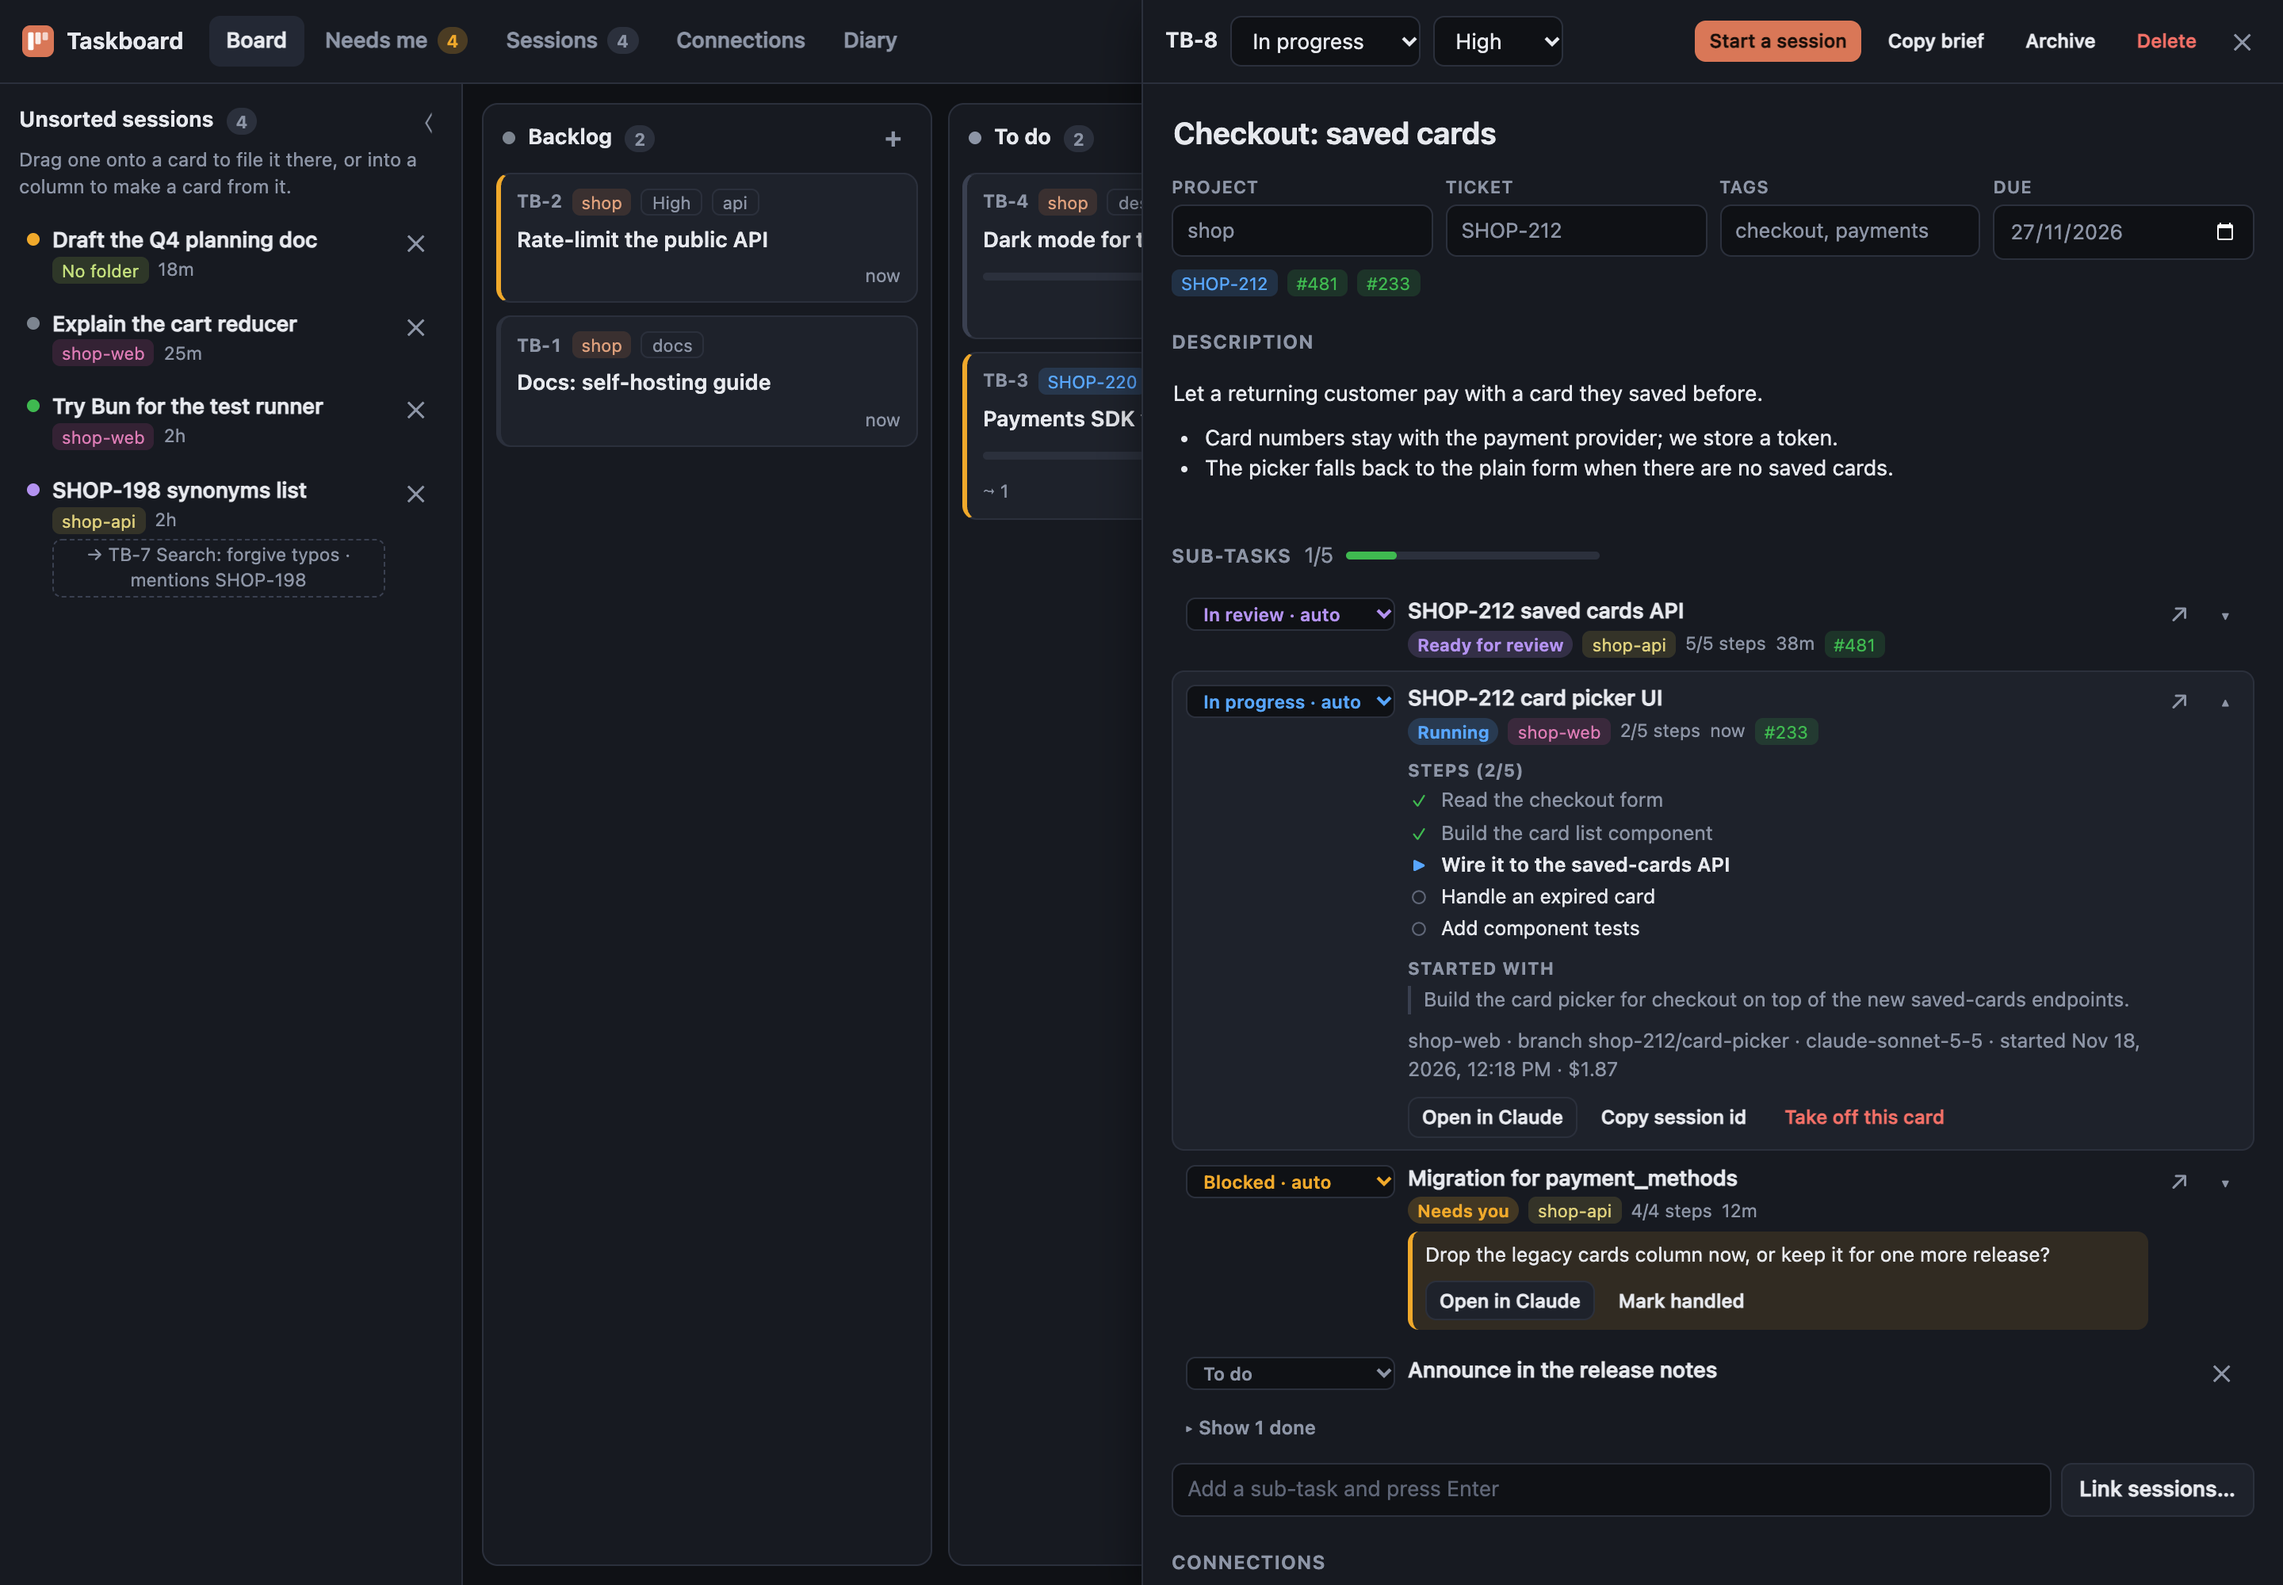
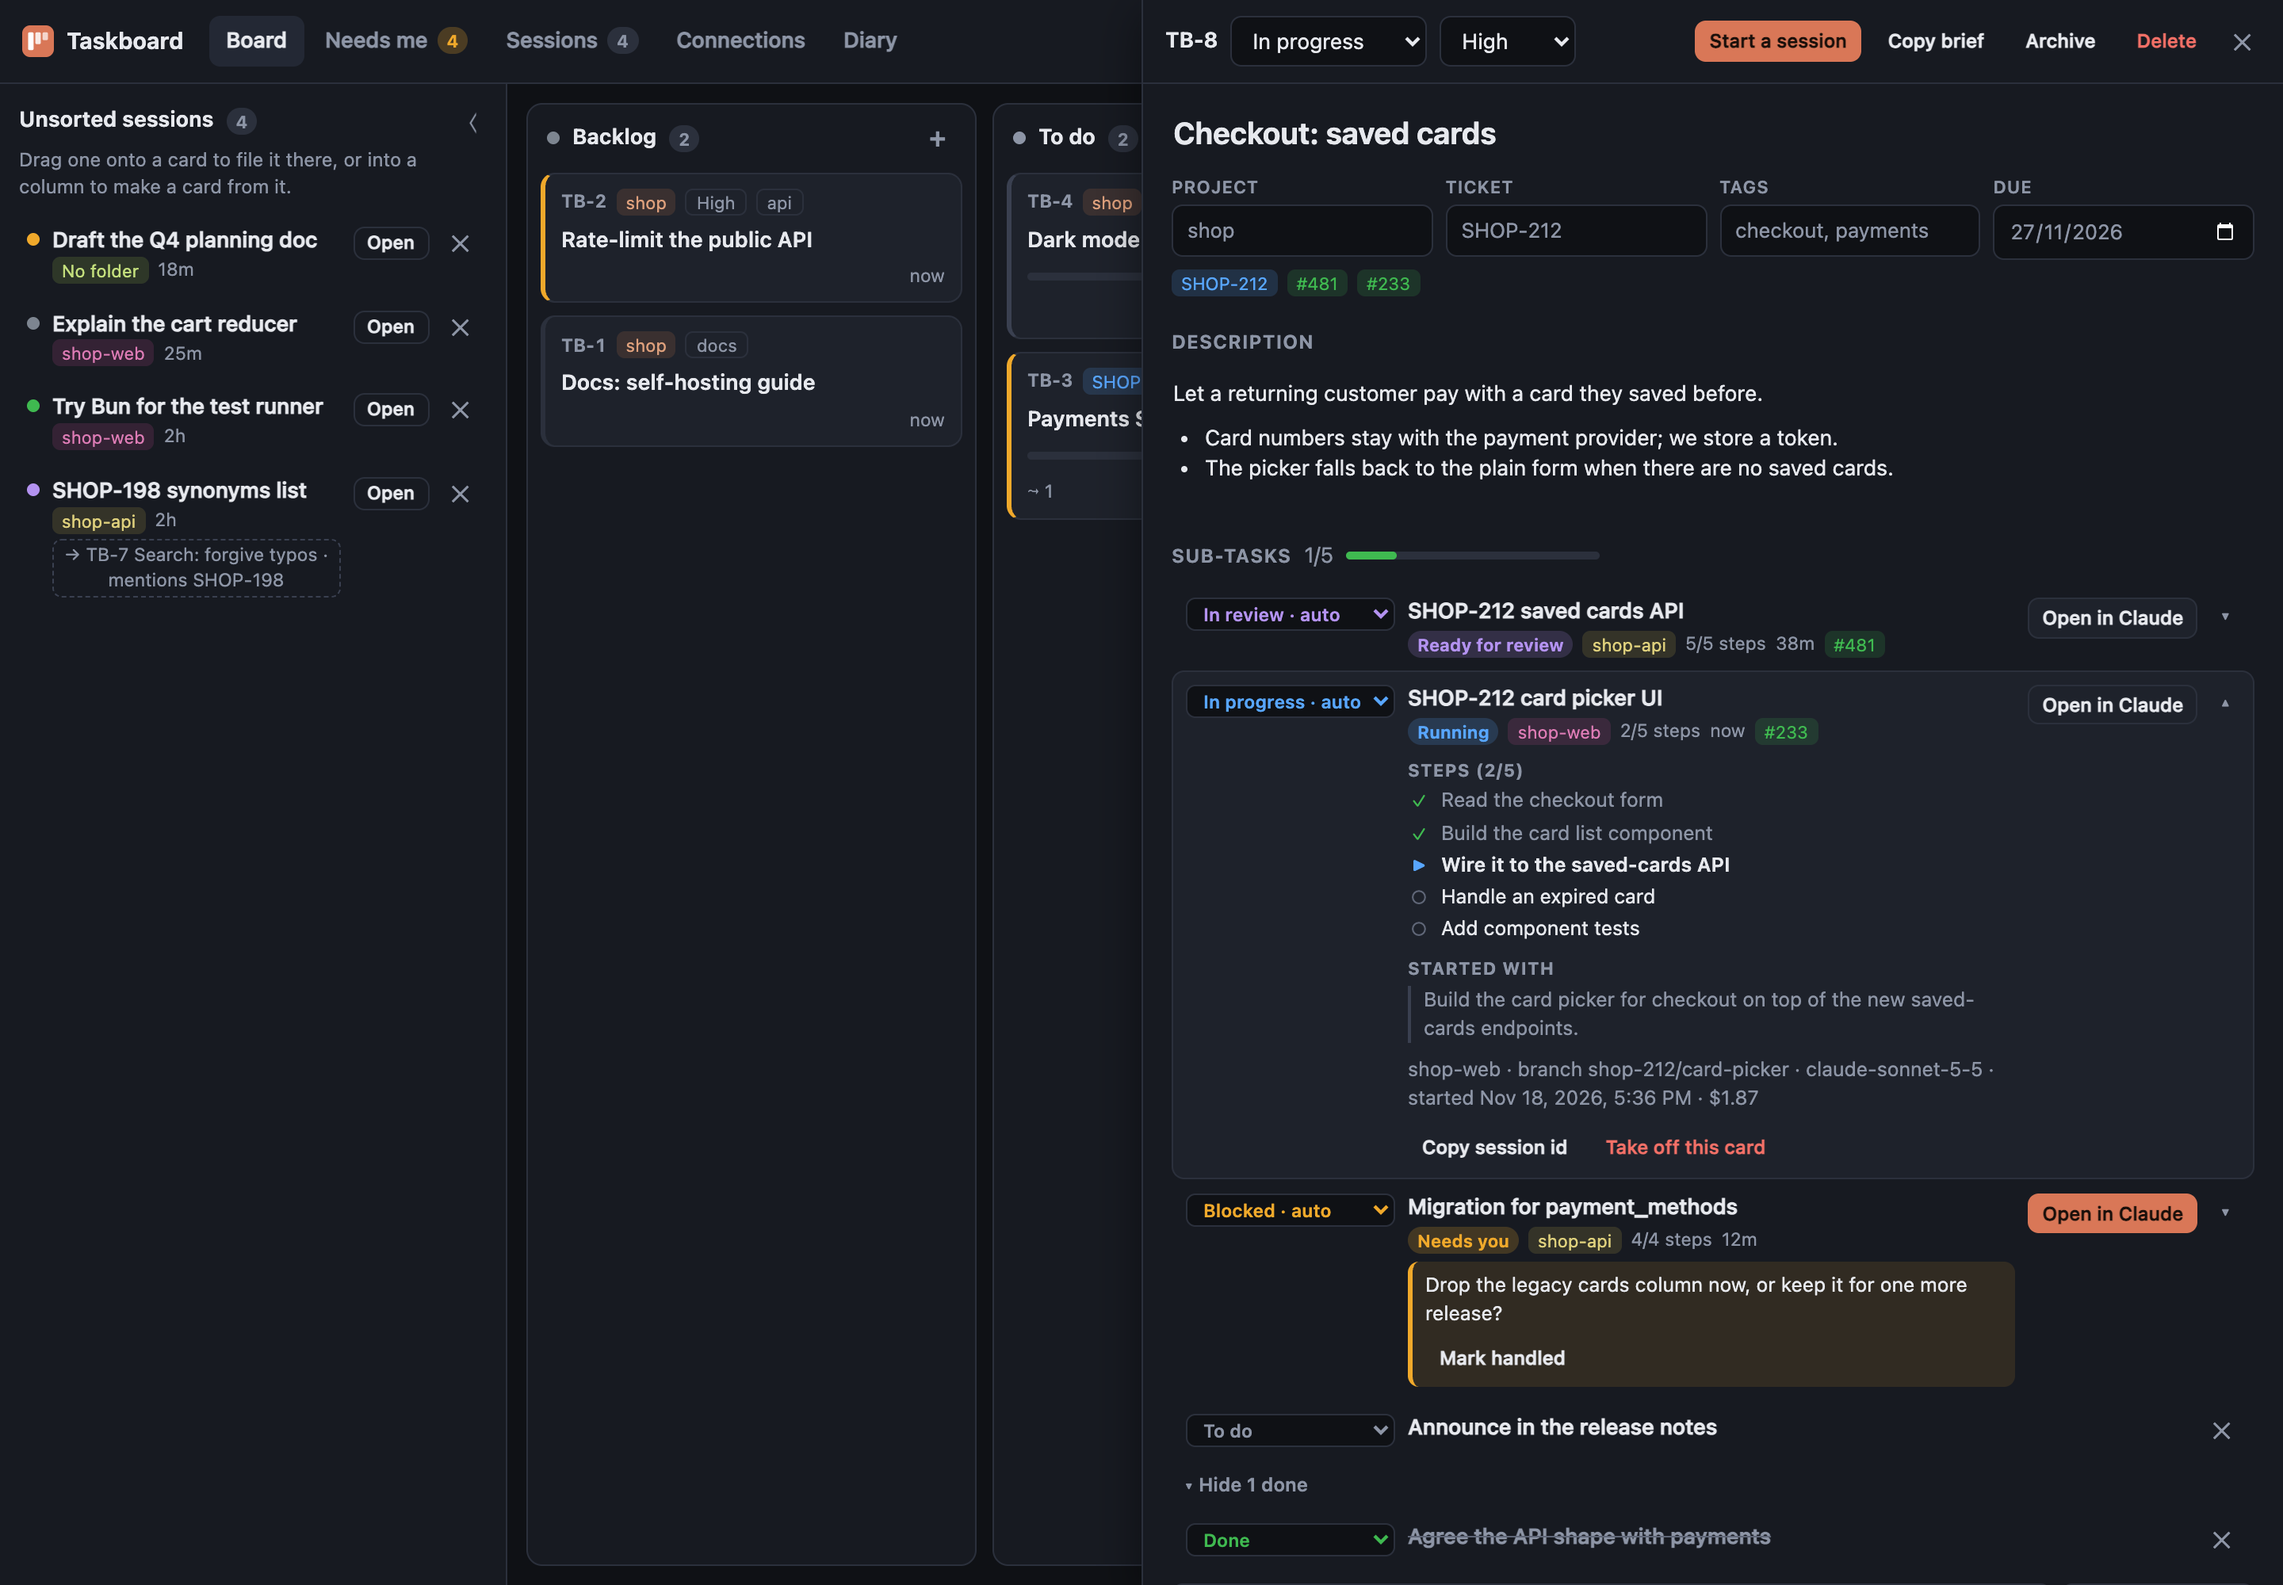
Show Open in Claude on every session
The way from the board into a session was a small arrow in the card
panel, the Sessions table and the Diary, a labelled button only once a
session row was unfolded or was waiting on you, and missing from the
unsorted list altogether.

Every session now has one labelled button wherever it is listed: Open in
Claude, or Copy resume command for a session that ran in a terminal. In
the card panel it takes the accent colour when the session is waiting on
you. At side-pane widths the label shortens to Open.

The unsorted list is a little wider to make room, and the README
screenshots are retaken.

diff --git a/public/drawer.js b/public/drawer.js
@@ -90,18 +90,18 @@ function subRow(card, sub) {
     meta = `<div class="sub-meta">${bits.join('')}</div>`;
     if (sub.state === 'needs_you') {
       needs = `<div class="sub-needs">${esc((s.summary && s.summary.needsAction) || 'Waiting for your reply.')}
-        <div class="row-actions" style="margin-top:6px"><button class="btn small" data-act="open-session" data-session="${esc(s.id)}">Open in Claude</button><button class="btn small ghost" data-act="ack" data-session="${esc(s.id)}">Mark handled</button></div></div>`;
+        <div class="row-actions" style="margin-top:6px"><button class="btn small ghost" data-act="ack" data-session="${esc(s.id)}">Mark handled</button></div></div>`;
     }
     if (open) {
       detail = `<div class="sub-detail">${sessionDetailHtml(s)}
-        <div class="row-actions"><button class="btn small" data-act="open-session" data-session="${esc(s.id)}">Open in Claude</button><button class="btn small ghost" data-act="copy-id" data-session="${esc(s.id)}">Copy session id</button><button class="btn small ghost danger" data-act="sub-remove" data-sub="${esc(sub.id)}">Take off this card</button></div></div>`;
+        <div class="row-actions"><button class="btn small ghost" data-act="copy-id" data-session="${esc(s.id)}">Copy session id</button><button class="btn small ghost danger" data-act="sub-remove" data-sub="${esc(sub.id)}">Take off this card</button></div></div>`;
     }
   } else if (linked) {
     meta = `<div class="sub-meta"><span>${sub.kind === 'routine' ? 'This scheduled task has no runs on this Mac.' : `The session was deleted from Claude.${sub.known ? ` <button class="fold" data-act="diary-find" data-q="${esc(sub.title)}">See what it did in the Diary</button>` : ''}`}</span></div>`;
   }
 
   const buttons = linked
-    ? `${s ? `<button class="icon-btn" data-act="open-session" data-session="${esc(s.id)}" title="Open in Claude">↗</button>` : ''}<button class="icon-btn" data-act="${s ? 'sub-toggle' : 'sub-remove'}" data-sub="${esc(sub.id)}" title="${s ? 'Details' : 'Remove'}">${s ? (open ? '▴' : '▾') : '✕'}</button>`
+    ? `${openButton(s, sub.state === 'needs_you' ? 'primary' : '')}<button class="icon-btn" data-act="${s ? 'sub-toggle' : 'sub-remove'}" data-sub="${esc(sub.id)}" title="${s ? 'Details' : 'Remove'}">${s ? (open ? '▴' : '▾') : '✕'}</button>`
     : `<button class="icon-btn" data-act="sub-remove" data-sub="${esc(sub.id)}" title="Remove">✕</button>`;
 
   return `<div class="sub${sub.status === 'done' ? ' is-done' : ''}${linked ? ' linked' : ''}${open ? ' expanded' : ''}">${select}<div class="sub-main">${title}${meta}${needs}${detail}</div>${buttons}</div>`;

diff --git a/public/styles.css b/public/styles.css
@@ -85,7 +85,7 @@ select.field { padding-right: 4px; }
 /* ---------- board ---------- */
 .board-wrap { flex: 1; min-width: 0; display: flex; }
 .inbox {
-  width: 292px; flex: none; border-right: 1px solid var(--line); background: var(--panel);
+  width: 320px; flex: none; border-right: 1px solid var(--line); background: var(--panel);
   display: flex; flex-direction: column; min-height: 0;
 }
 .inbox-head { display: flex; align-items: center; gap: 8px; padding: 12px 12px 4px; font-weight: 650; }
@@ -452,4 +452,17 @@ mark { background: color-mix(in srgb, var(--needs) 38%, transparent); color: inh
   .dl { grid-template-columns: auto minmax(0, 1fr); gap: 2px 8px; }
   .dl .dx { grid-column: 1 / -1; }
   .dsess { padding: 9px 10px 7px; }
+}
+
+/* ---------- the way into a session ---------- */
+.open-btn { flex: none; }
+.open-btn.narrow .wide { display: none; }
+.sess > .open-btn { padding: 1px 8px; font-size: 11.5px; border-color: var(--line); margin-top: 1px; }
+.sub > .open-btn { margin-top: 1px; }
+.dlg-foot .open-btn, .dlg-body .open-btn { padding: 6px 11px; font-size: inherit; }
+@media (max-width: 760px) {
+  table.sessions .open-btn .wide { display: none; }
+}
+@media (max-width: 520px) {
+  .sub > .open-btn .wide, .dsess-head .open-btn .wide { display: none; }
 }

diff --git a/public/views.js b/public/views.js
@@ -23,7 +23,7 @@ function needItem(s, kind) {
         </div>
       </div>
       <div class="row-actions">
-        <button class="btn small primary" data-act="open-session" data-session="${esc(s.id)}">Open in Claude</button>
+        ${openButton(s, 'primary')}
         ${kind === 'needs' ? `<button class="btn small" data-act="ack" data-session="${esc(s.id)}" title="You dealt with it outside the session">Mark handled</button>` : ''}
       </div>
     </div>`;
@@ -79,7 +79,7 @@ function renderSessions() {
         <td>${card ? `<a class="chip" href="#card=${esc(card.key)}" data-act="open-card" data-card="${esc(card.id)}">${esc(card.key)} ${esc(card.title.slice(0, 26))}</a>` : sug ? `<button class="suggest" data-act="accept-suggest" data-session="${esc(s.id)}" data-card="${esc(sug.id)}">→ ${esc(sug.key)} · ${esc(s.suggest.reason)}</button>` : '<span class="muted">—</span>'}</td>
         <td>${s.prs.slice(0, 3).map(prChip).join(' ')}</td>
         <td class="nowrap muted" title="${esc(fullDate(s.lastActivityAt))}">${esc(ago(s.lastActivityAt))}</td>
-        <td><button class="icon-btn" data-act="open-session" data-session="${esc(s.id)}" title="Open in Claude">↗</button></td>
+        <td class="nowrap">${openButton(s)}</td>
       </tr>`;
     })
     .join('');

diff --git a/public/core.js b/public/core.js
@@ -143,6 +143,20 @@ function prChip(pr) {
     : `<span class="chip ${cls}" title="${esc(title)}">${esc(label)}</span>`;
 }
 
+/**
+ * The way from the board into a session. A labelled button wherever a session is
+ * shown, never an icon to be found: opening the session is what the board is for.
+ * A session that ran in a terminal cannot be opened in the app, so its button
+ * copies the command that resumes it.
+ */
+function openButton(s, look) {
+  if (!s || !s.id) return '';
+  const cli = s.source === 'cli';
+  const label = cli ? 'Copy resume<span class="wide"> command</span>' : 'Open<span class="wide"> in Claude</span>';
+  const title = cli ? 'It ran in a terminal: copies the command that resumes it' : 'Open this session in the Claude app';
+  return `<button class="btn small open-btn${look ? ' ' + look : ''}" data-act="open-session" data-session="${esc(s.id)}" title="${title}" data-stop>${label}</button>`;
+}
+
 const stateChip = (state) => `<span class="state-chip ${esc(state)}">${esc(STATE_LABEL[state] || state)}</span>`;
 const stateDot = (state) => `<span class="state-dot ${esc(state)}" title="${esc(STATE_LABEL[state] || '')}"></span>`;
 

diff --git a/public/board.js b/public/board.js
@@ -48,6 +48,7 @@ function sessionRow(s) {
         <div class="sess-meta">${projChip(s.projectName)}${routine ? `<span>⏰ ${routine.runs} runs</span>` : ''}<span>${esc(ago(s.lastActivityAt))}</span>${s.prs.slice(0, 2).map(prChip).join('')}</div>
         ${sug ? `<button class="suggest" data-act="accept-suggest" data-session="${esc(s.id)}" data-card="${esc(sug.id)}" title="Link to this card">→ ${esc(sug.key)} ${esc(sug.title.slice(0, 26))} · ${esc(s.suggest.reason)}</button>` : ''}
       </div>
+      ${openButton(s, 'ghost narrow')}
       <button class="icon-btn" data-act="hide-session" data-session="${esc(s.id)}" title="Hide from this list">✕</button>
     </div>`;
 }

diff --git a/public/modals.js b/public/modals.js
@@ -170,7 +170,7 @@ function sessionModalHtml(s) {
       <span class="grow"></span>
       ${s.estate === 'needs_you' ? `<button class="btn" data-act="ack" data-session="${esc(s.id)}">Mark handled</button>` : ''}
       <button class="btn" data-act="modal-link" data-session="${esc(s.id)}">${card ? 'Move to another card…' : 'Link to a card…'}</button>
-      <button class="btn primary" data-act="open-session" data-session="${esc(s.id)}">Open in Claude</button>
+      ${openButton(s, 'primary')}
     </div></div>`;
 }
 

diff --git a/public/diary.js b/public/diary.js
@@ -194,7 +194,7 @@ function diarySessionHead(s, terms) {
       ${title}
       ${projChip(s.projectName)} ${card} ${flag} ${(s.prs || []).map(prChip).join(' ')}
       <span class="grow"></span>
-      ${s.exists ? `<button class="icon-btn" data-act="open-session" data-session="${esc(s.id)}" title="${s.source === 'cli' ? 'Copy the command that resumes it' : 'Open in Claude'}">↗</button>` : ''}
+      ${s.exists ? openButton(s) : ''}
     </header>`;
 }
 

diff --git a/README.md b/README.md
@@ -79,7 +79,8 @@ Click a card to see everything about the task in one place.
 - **Sub-tasks** are either checklist items you tick yourself or linked sessions. A linked session's status says `· auto`: it follows the session. Pick a status by hand only to override it. A card's sessions are always listed, whatever their state; a session Claude has deleted keeps its name and a link to its days in the Diary.
 - **Ticket** takes a tracker key (`SHOP-212`) or a link, for example to a Slack thread.
 - **Unfold a session** (the arrow on the right) to see its step list, what it was started with, its branch and cost.
-- A session that is **waiting on you** shows its question on the card. **Open in Claude** takes you to that session; **Mark handled** clears it until the session asks again.
+- A session that is **waiting on you** shows its question on the card. **Mark handled** clears it until the session asks again.
+- Every session has an **Open in Claude** button, here and wherever else it is listed: the unsorted list, Needs me, Sessions and the Diary. A session that ran in a terminal gets **Copy resume command** instead.
 - **Start a session** opens Claude's new-session page in the folder of the card's **Project**, with a brief for this card in the prompt box (it also copies the brief, in case the page opens empty). The folder is the one earlier sessions of that project ran in; for a project no session has run in yet, you pick the folder in Claude. The new session reads the card and links itself to it.
 - **Link sessions…** adds existing sessions to the card.
 
